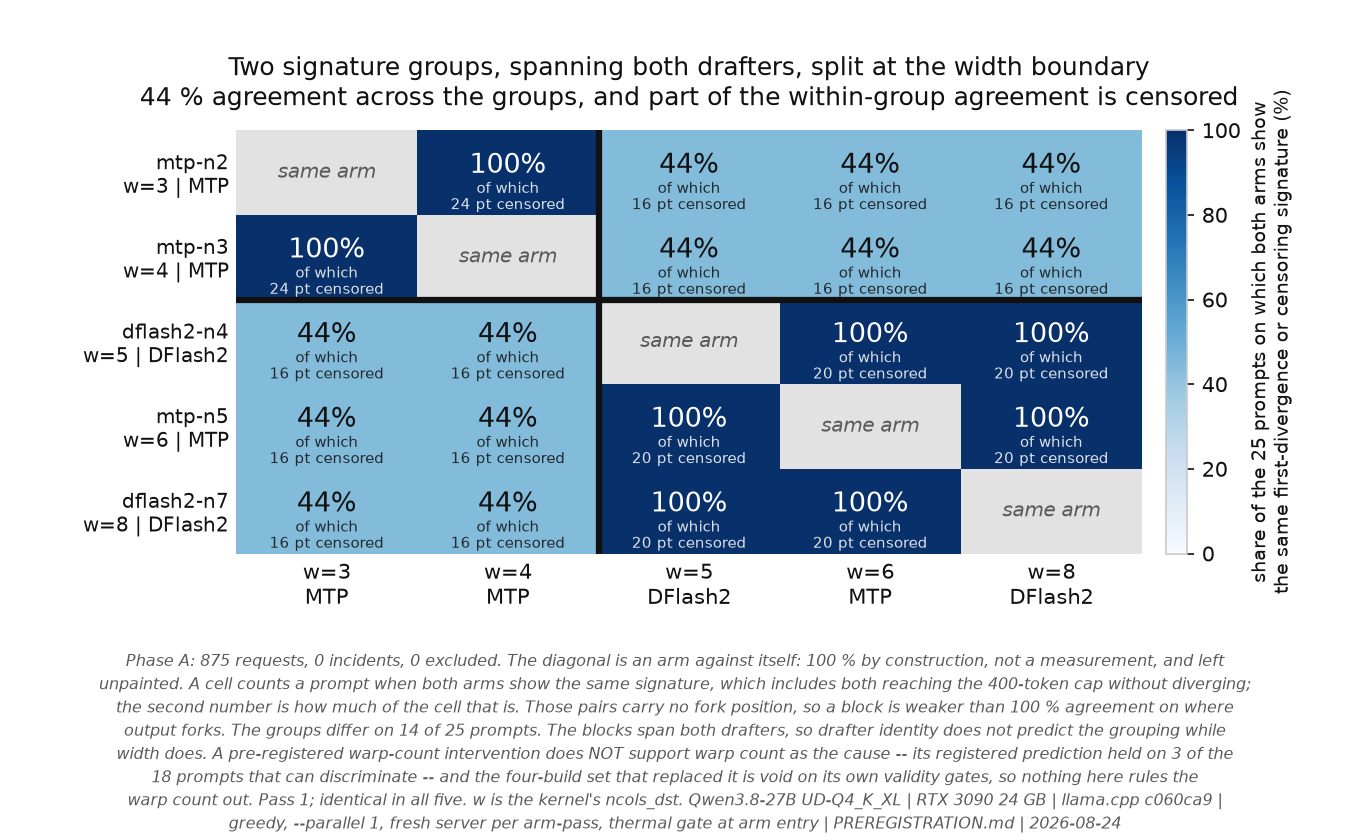
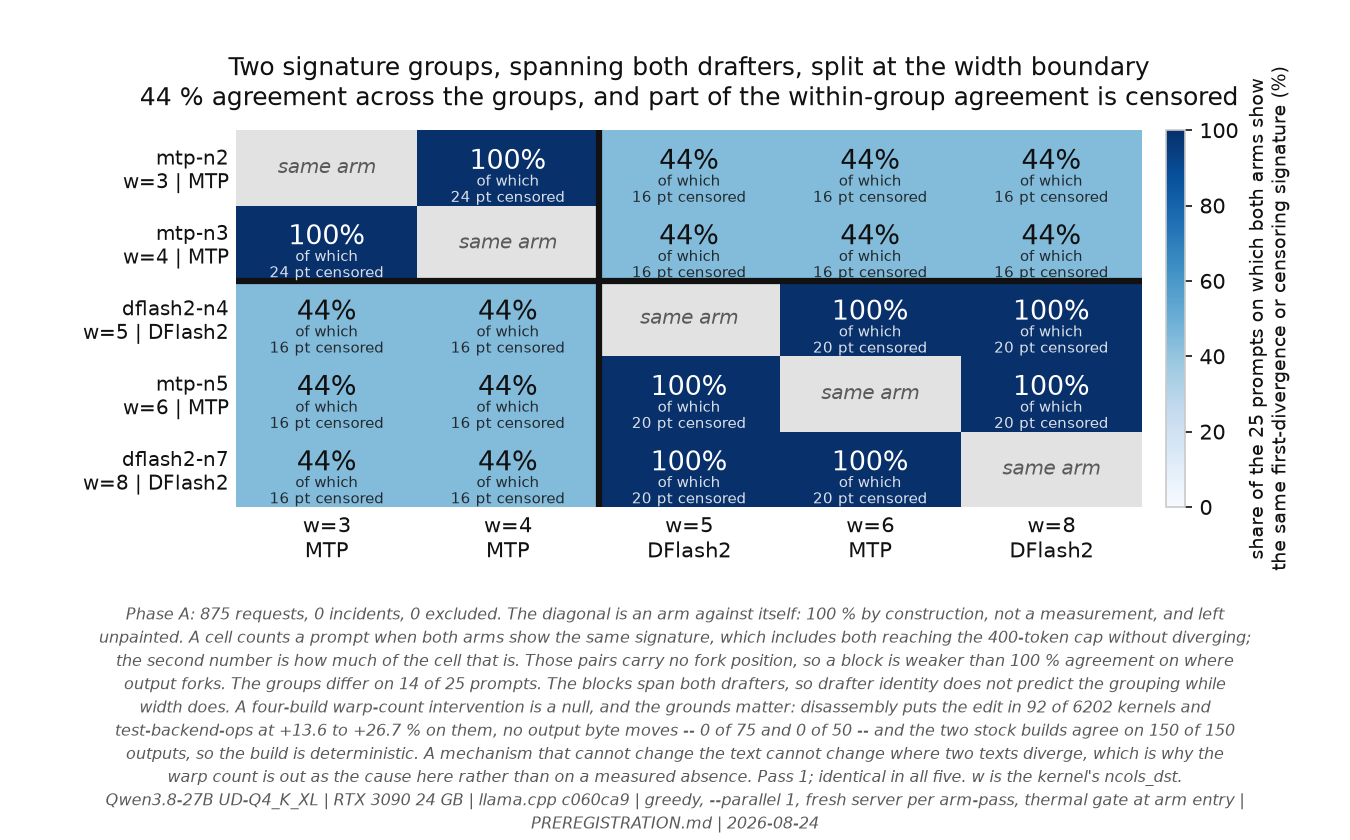
figures: my replacement caption contradicted the study's own conclusion
Yesterday I found "rules out warp count as the cause" in plot_width_partition's
caption, matched it against the withdrawn-wordings list, read the six
warp_intervention reports' validity gates -- four COMPARISON VOID, two saying
the edited row never reached the kernel -- and wrote that nothing there rules
the warp count out.

docs/GREEDY_DIVERGENCE.md says otherwise, and I had not read its section
through. Disassembly puts the edit in 92 of 6202 kernels and only there,
test-backend-ops measures it at +13.6 % at width 5 and +26.7 % at width 8
against a 0.17 % rebuild noise floor, no output byte moves in 75 or 50 records,
and the two stock builds agree on 6202 of 6202 kernels and 150 of 150 outputs.
A fork position is a property of the text, so a mechanism that changes the
kernel that much and the text not at all cannot be what moves a fork. That
document states the conclusion and names the grounds: "on those grounds rather
than on a measured absence".

Which is what the withdrawn phrase was withdrawn FOR. The wording argues from an
absence of measured effect; the held claim argues from a measured presence in
the kernel beside a measured absence in the text. The caption now says that, so
the guard is satisfied by a sentence that is also true, rather than by one that
took the withdrawal to mean the conclusion had gone with it.

Found by reading the README end to end before a release rather than by any
check, which is the point of doing that.

Changed region(s): [[0.0622, 0.0929, 0.9644, 0.9905], [0.0933, 0.1857, 0.28, 0.2476]]

diff --git a/analysis/plot.py b/analysis/plot.py
@@ -651,12 +651,14 @@ def fig_width_partition(result):
                f"number is how much of the cell that is. Those pairs carry no fork position, so a "
                f"block is weaker than 100 % agreement on where output forks. The groups differ on "
                f"{differ} of {len(prompts)} prompts. The blocks span both drafters, so drafter "
-               f"identity does not predict the grouping while width does. A pre-registered "
-               f"warp-count intervention does NOT support warp count as the cause -- its "
-               f"registered prediction held on 3 of the 18 prompts that can discriminate -- and "
-               f"the four-build set that replaced it is void on its own validity gates, so "
-               f"nothing here rules the warp count out. Pass 1; identical in all five. w is the "
-               f"kernel's ncols_dst.")
+               f"identity does not predict the grouping while width does. A four-build "
+               f"warp-count intervention is a null, and the grounds matter: disassembly puts the "
+               f"edit in 92 of 6202 kernels and test-backend-ops at +13.6 to +26.7 % on them, no "
+               f"output byte moves -- 0 of 75 and 0 of 50 -- and the two stock builds agree on "
+               f"150 of 150 outputs, so the build is deterministic. A mechanism that cannot "
+               f"change the text cannot change where two texts diverge, which is why the warp "
+               f"count is out as the cause here rather than on a measured absence. Pass 1; "
+               f"identical in all five. w is the kernel's ncols_dst.")
 
 
 # ------------------------------------------------------------------ 5. what speculation is bound by
